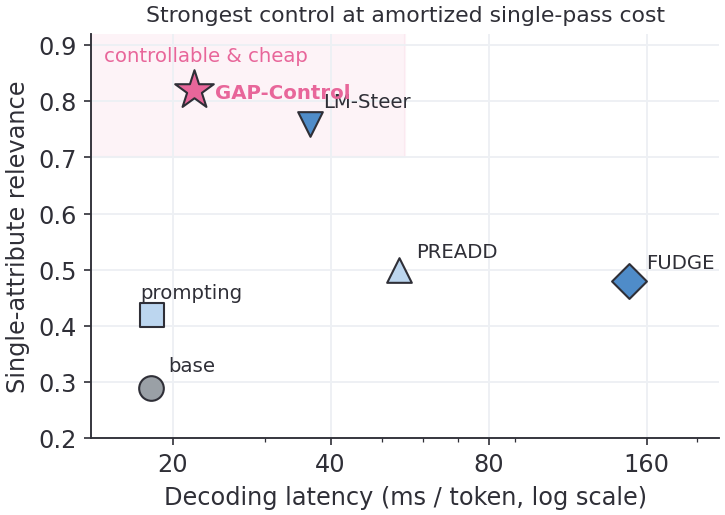
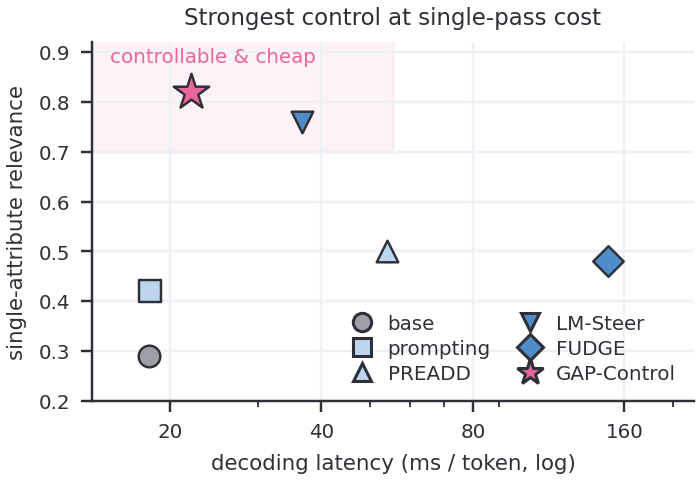
Update README to match the revised paper
New title and composition-as-supervision framing, n=12/48 main-table
numbers with the judge column, mechanism and scaling findings, CompMCTG
results, and a reproduction guide covering the full paper pipeline
(main runs, judge panel, Sec. 5 analyses, CompMCTG, figures). Refresh
assets to the current paper figures.

diff --git a/README.md b/README.md
@@ -2,11 +2,11 @@
 
 # GAP-Control
 
-### Cache Once, Compose Any — Amortized Compositional Controllable Decoding via a Shared-Rollout Advantage Cache
+### Composition as Supervision — Amortized Multi-Attribute Control via Shared-Rollout Advantage Distillation
 
-<img src="assets/pr.png" alt="GAP-Control overview" width="640">
+<img src="assets/framework.png" alt="GAP-Control: cache once, compose in supervision, amortize online" width="100%">
 
-*One offline rollout pass caches every attribute's advantage. Any composition — seen, unseen, signed, or soft + hard — is then an exact linear combination, served by a single lightweight controller at about 1× base decoding cost.*
+*One offline rollout pass caches every attribute's token-level advantage. Any signed mixture is then an exact linear combination **of the training targets**, distilled into a single-pass controller that decodes at ≈1.2× base cost.*
 
 </div>
 
@@ -14,12 +14,11 @@
 
 ## TL;DR
 
-Real controllable-generation requests are **compositions**: *"positive, formal, short, mentions ocean."* The space of such requests is combinatorial, and the interesting ones are mixtures that were **never trained or searched for**.
+Real controllable-generation requests are **compositions**: *"positive, formal, short, mentions ocean."* Amortized steering (LM-Steer) is cheap but **saturates** under composition; inference-time search (FUDGE, Best-of-N) is reward-grounded but **re-runs per target**.
 
-- **Amortized steering** (e.g. LM-Steer) is cheap — one forward pass — but composes by *adding* separately trained vectors, which is not reward-optimal and **saturates** under composition.
-- **Inference-time search** (FUDGE, SMC, controlled decoding) is reward-grounded but **re-runs per target**, so its cost grows with the number of compositions.
+We place the composition problem in a third location: **the supervision**. When a linear reward mixture is scored on one *shared* rollout, the base-policy token-level advantage is exactly linear in the mixture weights — so a single offline pass yields an unbiased distillation target for *every* signed composition at once. A lightweight controller distills this cache and a **value-gap gate** sizes each intervention.
 
-**GAP-Control** (*Gated Advantage Projection*) gets the reward-grounding of search at the single-pass cost of steering. The key observation: when the control reward is a linear mixture scored on **one shared rollout**, the base-policy token-level advantage is **exactly linear** in the mixture weights. So we cache every atomic advantage *once*, and every composition is a free linear combination at decode time.
+The analysis part asks what the controller actually learns. The cached targets are pointwise **noise-dominated** (two independent estimates barely agree) and using the cache directly by retrieval fails, yet the distilled controller reaches the cache's information limit: **amortization acts as a denoiser, not a compromise**. This predicts — and we confirm — that control is noise-limited wherever supervision reaches: more rollouts buy more control on covered states, while the doubly novel corner (unseen composition × unseen states) stays generalization-limited.
 
 ---
 
@@ -27,36 +26,29 @@ Real controllable-generation requests are **compositions**: *"positive, formal, 
 
 The KL-regularized optimal one-step intervention is the reward-induced token-level **advantage**:
 
-$$\pi^\star(v \mid s_t, c) \;\propto\; \pi_0(v \mid s_t)\,\exp\!\big(A_c(s_t,v)/\tau\big), \qquad \ell_t^\star = \ell_t^0 + A_c(s_t,\cdot)/\tau .$$
+$$\pi^\star(v \mid s_t, c) \;\propto\; \pi_0(v \mid s_t)\,\exp\!\big(A_c(s_t,v)/\tau\big).$$
 
-When the reward is a linear mixture $R_c = \sum_i \alpha_i R_i$ evaluated on the **same** continuation, linearity of expectation gives the exact decomposition:
+When the reward is a linear mixture $R_c = \sum_i \alpha_i R_i$ evaluated on the **same** continuations, linearity of expectation gives the exact decomposition
 
-$$A_c \;=\; \sum_i \alpha_i A_i , \qquad V_c^\star \;=\; \sum_i \alpha_i V_i^\star .$$
+$$A_c \;=\; \sum_i \alpha_i A_i , \qquad V_c^\star \;=\; \sum_i \alpha_i V_i^\star ,$$
 
-A **single** shared-rollout pass per prefix therefore caches the per-attribute advantages $\{A_i\}$ of **all** attributes at once, and the optimal residual for **any** condition $c=\{(a_i,\alpha_i)\}$ — including signed $\alpha_i<0$ (suppression) and soft + hard mixtures — is a linear combination of the cache, with no further rollout, training, or search. We call this **cache once, compose any**.
+so one shared-rollout pass per prefix caches the per-attribute advantages $\{\hat A_i\}$ of **all** attributes at once, and the distillation target for **any** condition $c=\{(a_i,\alpha_i)\}$ — including signed $\alpha_i<0$ (suppression) — is a free linear combination of the cache. Exactness lives in the *training targets*; no per-request rollout, training, or search.
 
 ---
 
 ## Method: three stages
 
-<div align="center">
-<img src="assets/framework.png" width="100%" alt="GAP-Control architecture: cache once, compose any, amortize">
-<br><sub>The three stages in detail. <b>(1) Cache once</b>: one shared rollout per prefix scores every atomic reward on the same continuations → per-attribute advantage cache. <b>(2) Compose any</b>: any signed/scaled mixture is the exact linear combination $A_c=\sum_i\alpha_i A_i$. <b>(3) Amortize</b>: a single-pass controller emits the residual, the value-gap gate sizes it, and a hard-constraint overlay handles verifier-defined attributes.</sub>
-</div>
-
-**1 · Cache once** *(offline)* — From each prefix, one shared rollout set scores *every* atomic attribute reward on the *same* continuations, yielding the advantage cache
+**1 · Cache once** *(offline)* — From each prefix, one shared rollout set ($n$ continuations per top-$K$ candidate) scores *every* atomic reward on the *same* continuations:
 
 $$\hat A_i(s_t,v) = \hat Q_i(s_t,v) - \sum_{u\in S_t}\pi_0(u\mid s_t)\,\hat Q_i(s_t,u), \qquad \hat Q_i(s_t,v)=\tfrac1n\sum_{j} R_i(y^{(j)}).$$
 
-**2 · Compose any** *(free)* — For any requested mixture, the optimal residual is $A_c/\tau = \sum_i \alpha_i \hat A_i / \tau$ by the identity above. The same cache covers seen, unseen, signed, and soft + hard compositions.
+**2 · Compose in supervision** *(free)* — Any signed mixture's target is $\hat A_c = \sum_i \alpha_i \hat A_i$ by the identity above. Training samples random 1–3-attribute signed compositions per prefix, so the controller sees composition *as supervision*.
 
-**3 · Amortize** *(online, one pass)* — A lightweight controller distills the cache, predicting a tied logit residual $b = W_{\mathrm{LM}}\,r_t$ and a value $\widehat V_t$ from the base hidden state and a control vector $v(c)=\sum_i \alpha_i e_i$. A **value-gap gate** sizes each step — intervene in proportion to how far the objective is from being met and how much head-room the base leaves:
+**3 · Amortize online** *(one pass)* — A small controller $f_\theta(h_t, v(c))$ predicts a tied logit residual $b_t = W_{\mathrm{LM}} r_t$ and a value $\widehat V_t$ from the frozen base hidden state and the control vector $v(c)=\sum_i \alpha_i e_i$. A **value-gap gate** sizes each step:
 
-$$\rho_t = \big(\rho_{\min} + \rho_{\max}\,g_t\big)\,u_t^{\gamma}, \qquad g_t = \max\!\big(0,\,R_{\text{target}} - \widehat V_t\big), \qquad u_t = 1 - \max_v \pi_0(v\mid s_t).$$
+$$\rho_t = \big(\rho_{\min} + \rho_{\max}\,g_t\big)\,u_t^{\gamma}, \qquad g_t = \max\!\big(0,\,R_{\text{target}} - \widehat V_t\big), \qquad u_t = 1 - \max_v \pi_0(v\mid s_t),$$
 
-The controller supplies the direction, the gate the magnitude (centered, set-to-norm): $\;b_t = \rho_t\,\bar b / \lVert \bar b \rVert$. **Verifier-defined** attributes (length, keyword, structure) are met by a small separate overlay (EOS budget bias, satisfaction-gated marker push) — a few logit adds per step, no extra forward pass.
-
-Online cost: **one base forward + one tiny controller forward per token** ($\approx 1\times$ base).
+applied centered and set-to-norm: $b_t \leftarrow \rho_t\,\bar b_t / \lVert \bar b_t \rVert$. The controller supplies the direction, the gate the magnitude. Online cost: **one base forward + one tiny controller forward per token** (≈1.2× base). Verifier-defined attributes (length, keyword, structure) are handled by a training-free logit overlay, kept in the appendix.
 
 <div align="center">
 <img src="assets/gate.png" width="66%" alt="Value-gap gate validation">
@@ -67,50 +59,65 @@ Online cost: **one base forward + one tiny controller forward per token** ($\app
 
 ## Results
 
-On **base** (non-instruction-tuned) LMs, where prompting fails, GAP-Control leads decoding-time control on single *and* compositional attributes. Falcon3-3B-Base, 116 held-out prompts (zero training overlap), 95% prompt-clustered bootstrap CIs:
+On **base** (non-instruction-tuned) LMs, where prompting fails, GAP-Control leads decoding-time control on single *and* compositional attributes. Falcon3-3B-Base, 116 held-out prompts (zero training overlap), 95% prompt-clustered bootstrap CIs; `Judge` is the independent three-judge panel:
 
-| Method | Rel. ↑ | Succ. ↑ | Seen pair | **Unseen pair** | **Unseen triple** | PPL ↓ | ×base |
-|---|:--:|:--:|:--:|:--:|:--:|:--:|:--:|
-| base | 0.29 | 0.27 | 0.15 | 0.11 | 0.09 | 4.46 | 1.0× |
-| prompting | 0.42 | 0.40 | 0.35 | 0.32 | 0.24 | 6.08 | 1.0× |
-| PREADD | 0.50 | 0.49 | 0.40 | 0.29 | 0.26 | 4.23 | 3.0× |
-| FUDGE | 0.48 | 0.47 | 0.23 | 0.21 | 0.17 | 7.96 | 8.2× |
-| LM-Steer *(tuned, rank-256)* | 0.76 | 0.77 | 0.50 | 0.44 | 0.38 | 7.60 | 2.0× |
-| **GAP-Control** | **0.82** | **0.84** | **0.60** | **0.54** | **0.48** | 6.55 | **1.2×** |
+| Method | Rel. ↑ | Succ. ↑ | Judge ↑ | Seen pair | **Unseen pair** | **Unseen triple** | PPL ↓ | ×base |
+|---|:--:|:--:|:--:|:--:|:--:|:--:|:--:|:--:|
+| base | 0.29 | 0.27 | 0.54 | 0.15 | 0.11 | 0.09 | 4.46 | 1.0× |
+| prompting | 0.42 | 0.40 | 0.60 | 0.35 | 0.32 | 0.24 | 6.08 | 1.0× |
+| PREADD | 0.50 | 0.49 | 0.72 | 0.40 | 0.29 | 0.26 | **4.23** | 3.0× |
+| LM-Steer *(tuned, rank-256)* | 0.76 | 0.77 | 0.74 | 0.50 | 0.44 | 0.38 | 7.60 | 2.0× |
+| FUDGE *(tuned)* | 0.67 | 0.67 | 0.66 | 0.37 | 0.35 | 0.28 | 8.49 | 7.8× |
+| Best-of-8 | 0.74 | 0.75 | 0.72 | 0.50 | 0.50 | 0.43 | 4.17 | 7.8× |
+| **GAP-Control** (n=12 cache) | 0.82 | 0.84 | 0.83 | 0.60 | **0.54** | 0.48 | 6.55 | **1.2×** |
+| **GAP-Control** (n=48 cache) | **0.86** | **0.88** | **0.88** | **0.70** | **0.54** | **0.50** | 6.42 | **1.2×** |
 
-- **Breaks the saturation ceiling.** Tuned LM-Steer's compositional control *saturates* (strength-6 and strength-12 coincide at 0.44 / 0.38); GAP-Control exceeds it at *any* operating point — and at **lower** perplexity.
-- **The advantage widens with arity** (unseen pair → triple), exactly as the theory predicts: composition error is bounded by the per-atomic fit, not the number of co-active attributes.
-- **One controller, every attribute.** Per-attribute relevance averages **0.73** across seven soft classes (vs. LM-Steer 0.63, prompting 0.44, base 0.31), and the *same* controller does signed suppression zero-shot ($P(\text{positive})$: 0.06 → 0.82 as $\alpha: -1 \to +1$).
-- **Hard constraints** via the overlay: keyword **1.00**, length **0.98**, structure **0.89** (vs. prompting 0.47 / 0.63 / 0.32).
+Same pattern on SmolLM2-1.7B (GAP 0.80/0.82 single, 0.39/0.40 unseen pair/triple vs LM-Steer 0.35/0.26). GAP cells are stable across three decoding seeds (std ≤ 0.013 on all compositional columns).
 
 <div align="center">
-<img src="assets/saturation.png" width="49%" alt="Control vs fluency: LM-Steer saturates, GAP-Control does not">
-<img src="assets/composition.png" width="49%" alt="Unseen pair and triple composition">
-<br><sub>Left: static steering <b>saturates</b> while GAP-Control reaches control it cannot match at any strength, and at lower PPL. Right: GAP-Control puts the most probability mass on satisfying <b>all</b> target attributes of an unseen pair / triple at once.</sub>
+<img src="assets/dashboard.png" width="100%" alt="Per-sample results dashboard">
+<br><sub>Per-sample view (~2k generations). Left: on the <b>unseen</b> pair, GAP moves probability mass into the jointly-satisfying quadrant. Middle: full score distributions on the single-attribute task. Right: control is <b>specific</b> — targeting an attribute (row) moves that attribute most.</sub>
+</div>
+
+**What survives distillation (the mechanism).** Two independent teacher estimates agree only cos 0.30 / top-1 0.56 — the targets are noise-dominated — and kNN retrieval from the cache is *worse than no intervention*. Yet the distilled controller matches an independent teacher re-estimate: it sits at the cache's information limit. At decision level, the teacher flips the argmax on 44.7% of (state, attribute) decisions — 12% in the lowest uncertainty quartile rising to 65% in the highest — and the controller reaches 82% of the reproducible flip-capture ceiling (n=48 cache).
+
+<div align="center">
+<img src="assets/mechanism.png" width="55%" alt="Per-decision mechanism scatter">
+<img src="assets/scaling.png" width="43%" alt="Rollout scaling: noise-limited vs generalization-limited">
+<br><sub>Left: all 1160 held-out (state, attribute) decisions at their true (uncertainty, direction-fit) coordinates — flips concentrate at high $u_t$, where the gate intervenes. Right: growing the cache $n{=}12\to48$ buys control wherever supervision reaches; the doubly novel corner does not move.</sub>
+</div>
+
+**Frontier & cost.** At matched perplexity GAP dominates the control–fluency frontier of a swept LM-Steer; the gate (γ>0) beats every fixed-strength (gate-off) operating point. One controller also does signed suppression zero-shot ($P(\text{positive})$: 0.06 → 0.82 as $\alpha:-1\to+1$).
+
+<div align="center">
+<img src="assets/frontier_ho2.png" width="49%" alt="Control-fluency frontier, unseen pair">
+<img src="assets/frontier_tri.png" width="49%" alt="Control-fluency frontier, triple">
 </div>
 
 <div align="center">
-<img src="assets/signed.png" width="53%" alt="Signed control sweep and control-perturbation frontier">
-<img src="assets/pareto.png" width="38%" alt="Control vs latency: cheap-and-controllable corner">
-<br><sub>Left: one controller spans <b>signed</b> control zero-shot — suppression ($\alpha=-1$) to amplification ($\alpha=+1$). Right: GAP-Control sits in the cheap-and-controllable corner — above inference-time search (FUDGE) on control, ~7× faster.</sub>
+<img src="assets/results.png" width="53%" alt="Signed control sweep and control-perturbation frontier">
+<img src="assets/pareto.png" width="38%" alt="Control vs latency">
+<br><sub>Left: one controller spans signed control, suppression ($\alpha=-1$) to amplification ($\alpha=+1$). Right: GAP sits in the cheap-and-controllable corner — above inference-time search on control, ~7× faster.</sub>
 </div>
 
-<div align="center">
-<img src="assets/specificity.png" width="42%" alt="Control specificity heatmap">
-<img src="assets/controlplane.png" width="42%" alt="Two-coefficient control plane">
-<br><sub>Left: control is <b>specific</b> — targeting an attribute (row) raises that attribute most (diagonal), with leakage only between correlated attributes. Right: the two-coefficient control plane is a smooth, navigable knob — joint success rises as either weight increases.</sub>
-</div>
+**CompMCTG benchmark** (Zhong et al., ACL 2024; official RoBERTa evaluators, disjoint from our reward family):
+
+| Method | Yelp Acc ↑ | Yelp joint ↑ | Fyelp Acc ↑ | Fyelp Δcomp |
+|---|:--:|:--:|:--:|:--:|
+| prompting | 0.53 | 0.16 | 0.51 | −0.00 |
+| LM-Steer | 0.70 | 0.35 | 0.52 | −0.00 |
+| **GAP-Control** | **0.77** | **0.42** | **0.60** | **−0.01** |
+
+Near-zero degradation (Δcomp) from seen to unseen compositional splits — the composition-as-supervision property transfers.
 
 ---
 
 ## Controlled attributes
 
-Two reward classes under one residual mechanism:
-
 - **Soft** (classifier reward, continuous intensity): **sentiment** {positive, negative, neutral}, **emotion** {joy, anger, sadness, fear}, **style** {formal, informal, literary} — a `bge-base-en-v1.5` head trained on synthesized, judge-filtered text, then frozen.
-- **Hard** (exact rule verifier, training-free): **length** {short / medium / long / target N}, **keyword** {required set}, **structure** {interrogative / exclamatory / enumeration / dialogue}.
+- **Hard** (exact rule verifier, training-free overlay): **length**, **keyword**, **structure** {interrogative / exclamatory / enumeration / dialogue}.
 
-A control condition is a list of `(attribute, weight)` components, so single-attribute, continuous-intensity, signed, and multi-attribute composition are all one code path.
+A control condition is a list of `(attribute, weight)` components, so single-attribute, continuous-intensity, signed, and multi-attribute composition are one code path. Attribute presets for other datasets (Yelp/Fyelp/Amazon) are selected via `GAPCTRL_ATTRS`.
 
 ---
 
@@ -121,35 +128,59 @@ cp .env.example .env      # fill GAPCTRL_API_KEY / BASE_URL / MODEL (synthesis &
 pip install torch transformers scikit-learn pyyaml numpy
 ```
 
-Local models are read from `GAPCTRL_MODELS_DIR` (base LM, `bge-base-en-v1.5` backbone); runs are offline by default (`HF_HUB_OFFLINE=1`). The API is needed **only** to synthesize classifier data and run the LLM-judge — decoding and evaluation are fully local.
+Local models are read from `GAPCTRL_MODELS_DIR` (base LM, `bge-base-en-v1.5` backbone); runs are offline by default (`HF_HUB_OFFLINE=1`). The API is needed **only** to synthesize classifier data and run the LLM judges — decoding and evaluation are fully local. All headline experiments fit on a single RTX 3090 (24 GB); the full n=12 cache builds in ≈23 min, n=48 in ≈92 min.
 
-## Quickstart
+## Reproducing the paper
+
+**0 · Frozen classifiers** (one-time, needs the API for synthesis):
 
 ```bash
-# one-time: build the frozen soft-attribute classifiers (needs the API for synthesis)
 python scripts/synth_data.py       --dims sentiment,emotion,style --per-class 400
 python scripts/train_classifier.py --dim sentiment                # repeat per dimension
-
-# compositional control: cache once → compose any → decode → score
-python scripts/build_prefixes.py         --config configs/compositional_demo.yaml   # 1. prefixes (states s_t)
-python scripts/estimate_teacher_multi.py --config configs/compositional_demo.yaml   # 2. shared-rollout advantage cache
-python scripts/train_compositional.py    --config configs/compositional_demo.yaml   # 3. distill controller
-python scripts/decode_gap_control.py     --config configs/compositional_demo.yaml \
-       --methods gap,prompt,preadd,fudge                                            # 4. decode + baselines
-python scripts/evaluate.py               --config configs/compositional_demo.yaml   # 5. metrics table
 ```
 
-The LM-Steer / CAA baselines add `python scripts/synth_pairs.py` (contrastive pairs) →
-`python scripts/compute_steering.py --pairs` before training a steering controller.
-`scripts/run_multimodel.sh` and `scripts/run_qwen.sh` drive the full multi-model suite
-end to end; `scripts/judge_*.py` run the LLM-judge corroboration.
+**1 · Main pipeline** (Falcon3-3B-Base; `configs/flc_multi.yaml` = n=12 cache, `configs/flc_multi_n48.yaml` = n=48):
+
+```bash
+python scripts/build_prefixes.py         --config configs/flc_multi_n48.yaml  # prefixes (states)
+python scripts/estimate_teacher_multi.py --config configs/flc_multi_n48.yaml  # shared-rollout advantage cache
+python scripts/train_compositional.py    --config configs/flc_multi_n48.yaml  # distill controller + value head
+bash   scripts/run_n48_main.sh                                                # GAP cells of the main table (2 seeds)
+python scripts/evaluate.py               --config configs/flc_multi_n48.yaml  # classifier metrics + PPL + CIs
+```
+
+Baselines (prompting / PREADD / FUDGE / Best-of-8 / LM-Steer with `synth_pairs.py` + `compute_steering.py`) and the SmolLM2 / Qwen2.5 suites are driven end-to-end by `scripts/run_multimodel.sh` and `scripts/run_qwen.sh`. `scripts/evaluate_std.py` adds the standardized CTG metrics (generated-text PPL, Dist-1/2/3).
+
+**2 · Independent judges** (main-table `Judge` column): `python scripts/judge_matrix.py` — three LLM judges of distinct families rate every (model, method, setting) cell; raw ratings are persisted for threshold-free reanalysis (`scripts/judge_perattr.py` for the per-attribute view).
+
+**3 · Mechanism & scaling analyses** (Sec. 5 of the paper):
+
+```bash
+python scripts/noise_ceiling.py        # MC noise ceiling: two independent teacher estimates
+python scripts/knn_pilot.py            # retrieval pilot: direct cache use fails
+python scripts/fidelity_check.py       # controller-vs-cache fidelity: atomic / seen / unseen
+python scripts/mechanism_analysis.py --ckpt models/controller/flc_multi_n48/full.pt \
+       --dump-json paper_mech.json     # argmax-flip capture by uncertainty quartile + ceiling
+```
+
+The n-scaling law uses the `flc_multi_p*`/`flc_multi_n48_seed*` configs (prefix count, rollout budget, seeds); the gate/frontier sweep decodes the `_gt_g*_rt*_rm*` configs against gate-off `abl_nogate*`.
+
+**4 · CompMCTG** (clone [CG4MCTG](https://github.com/tqzhong/CG4MCTG) with its data + official evaluators into `third_party/`, gitignored):
+
+```bash
+python scripts/compmctg_prep.py  --dataset Yelp        # their data -> our classifier/prompt format
+python scripts/compmctg_run.py   --dataset Yelp        # cache + controller per split, decode all combos
+python scripts/compmctg_score.py --dataset Yelp --evaluator official   # their RoBERTa evaluators
+```
+
+**5 · Figures** — `paper/scripts/` regenerates every paper figure from `outputs/` decodes (shared style in `figstyle.py`): `make_dashboard.py`, `make_mechanism.py` (reads the `mechanism_analysis.py` JSON dump), `make_scaling_fig.py`, `make_frontier.py`, `make_figures.py` (control plane), `plot_figs.py` (signed + pareto, via `dump_figdata.py`), `make_grid.py` (all-pairs/triples table).
 
 ## Repository layout
 
 ```
 gap_control/         core library
-  attributes.py        registry, ControlCondition, reward mixture R_c (soft + hard)
-  teacher.py           shared-rollout teacher: Q → centered advantage A, value target V*
+  attributes.py        registry + presets (GAPCTRL_ATTRS), ControlCondition, reward mixture R_c
+  teacher.py           shared-rollout teacher: Q -> centered advantage A, value target V*
   controller.py        control encoder (attribute-slot mixture) + gated controller (r_t, V̂)
   projection.py        center + value-gap gate (the magnitude budget)
   decoding.py          GAP-Control decode + prompting / FUDGE / best-of-N baselines
@@ -160,21 +191,24 @@ gap_control/         core library
   base_lm.py metrics.py config.py env.py
 scripts/             pipeline CLIs
   synth_data.py synth_pairs.py synth_prompts.py train_classifier.py   data + frozen classifiers
-  build_prefixes.py estimate_teacher_multi.py                         prefixes → shared-rollout cache
+  build_prefixes.py estimate_teacher_multi.py                         prefixes -> shared-rollout cache
   compute_steering.py train_compositional.py                          controller (+ LM-Steer / CAA baselines)
-  decode_gap_control.py evaluate.py score_all.py score_cd.py          decode · score
-  judge_{eval,comp,matrix}.py                                         LLM-judge corroboration
-  run_{multimodel,qwen,figdata}.sh                                    multi-model suite + figure data
-configs/             experiment configs
+  decode_gap_control.py evaluate.py evaluate_std.py score_all.py      decode + score
+  judge_{matrix,perattr,eval,comp}.py                                 independent LLM-judge panel
+  noise_ceiling.py knn_pilot.py fidelity_check.py mechanism_analysis.py   Sec. 5 analyses
+  compmctg_{prep,run,score}.py                                        CompMCTG benchmark
+  run_{n48_main,multimodel,qwen,figdata}.sh                           end-to-end drivers
+configs/             experiment configs (flc_* Falcon, gem_* SmolLM2, fyelp_* CompMCTG, _* sweeps)
 data/                small canonical inputs (prompts, rewards); large rollouts gitignored
+paper/scripts/       figure generators (figstyle.py = shared palette)
 ```
 
 ## Citation
 
 ```bibtex
 @inproceedings{gapcontrol,
-  title     = {Cache Once, Compose Any: Amortized Compositional Controllable
-               Decoding via a Shared-Rollout Advantage Cache},
+  title     = {Composition as Supervision: Amortized Multi-Attribute Control
+               via Shared-Rollout Advantage Distillation},
   author    = {Anonymous},
   year      = {2027}
 }